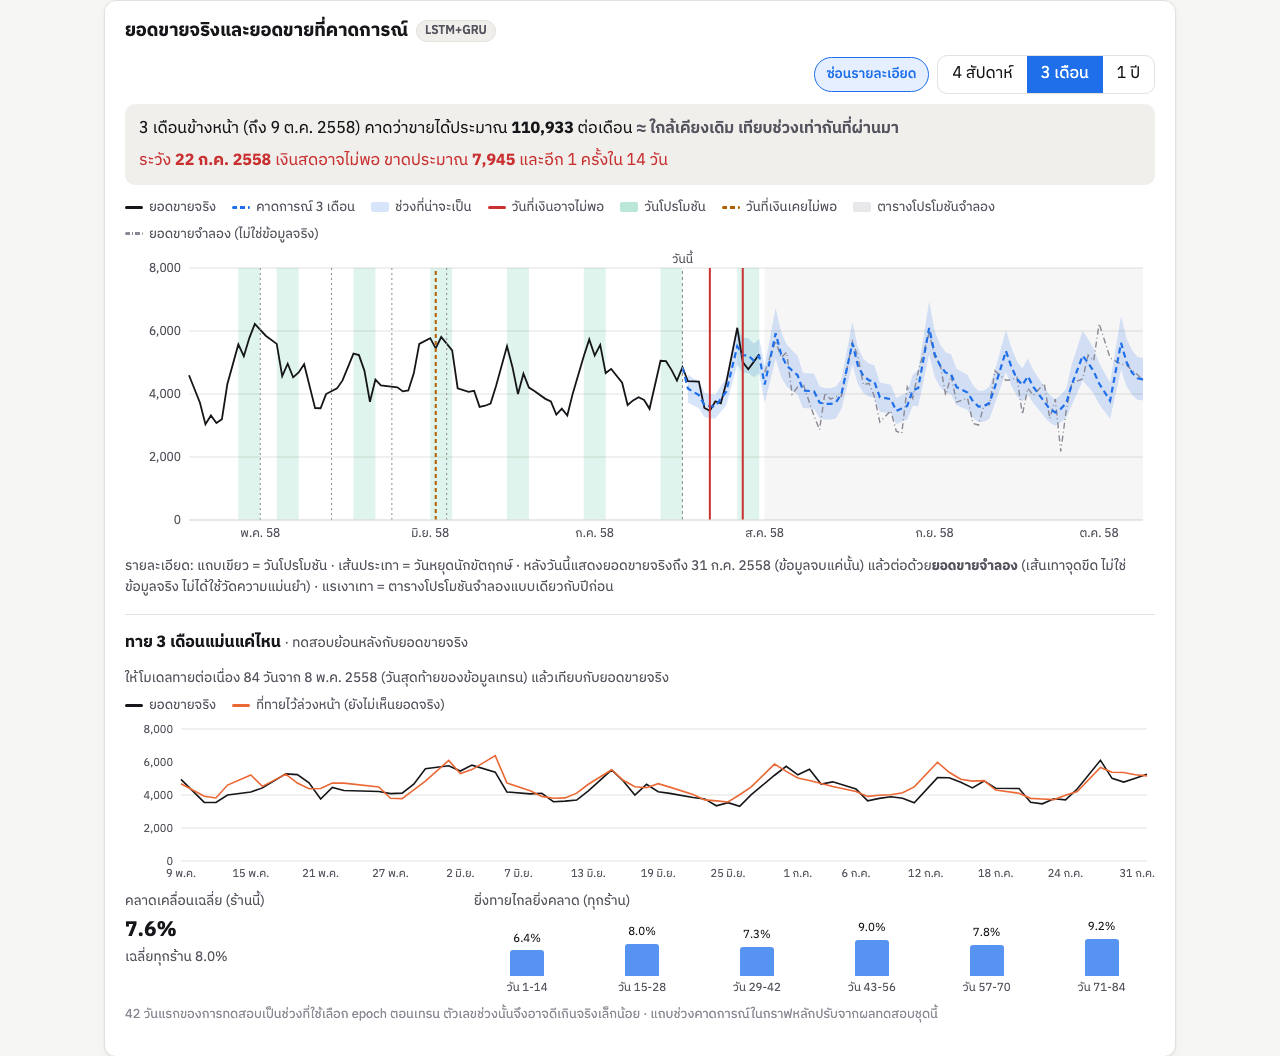
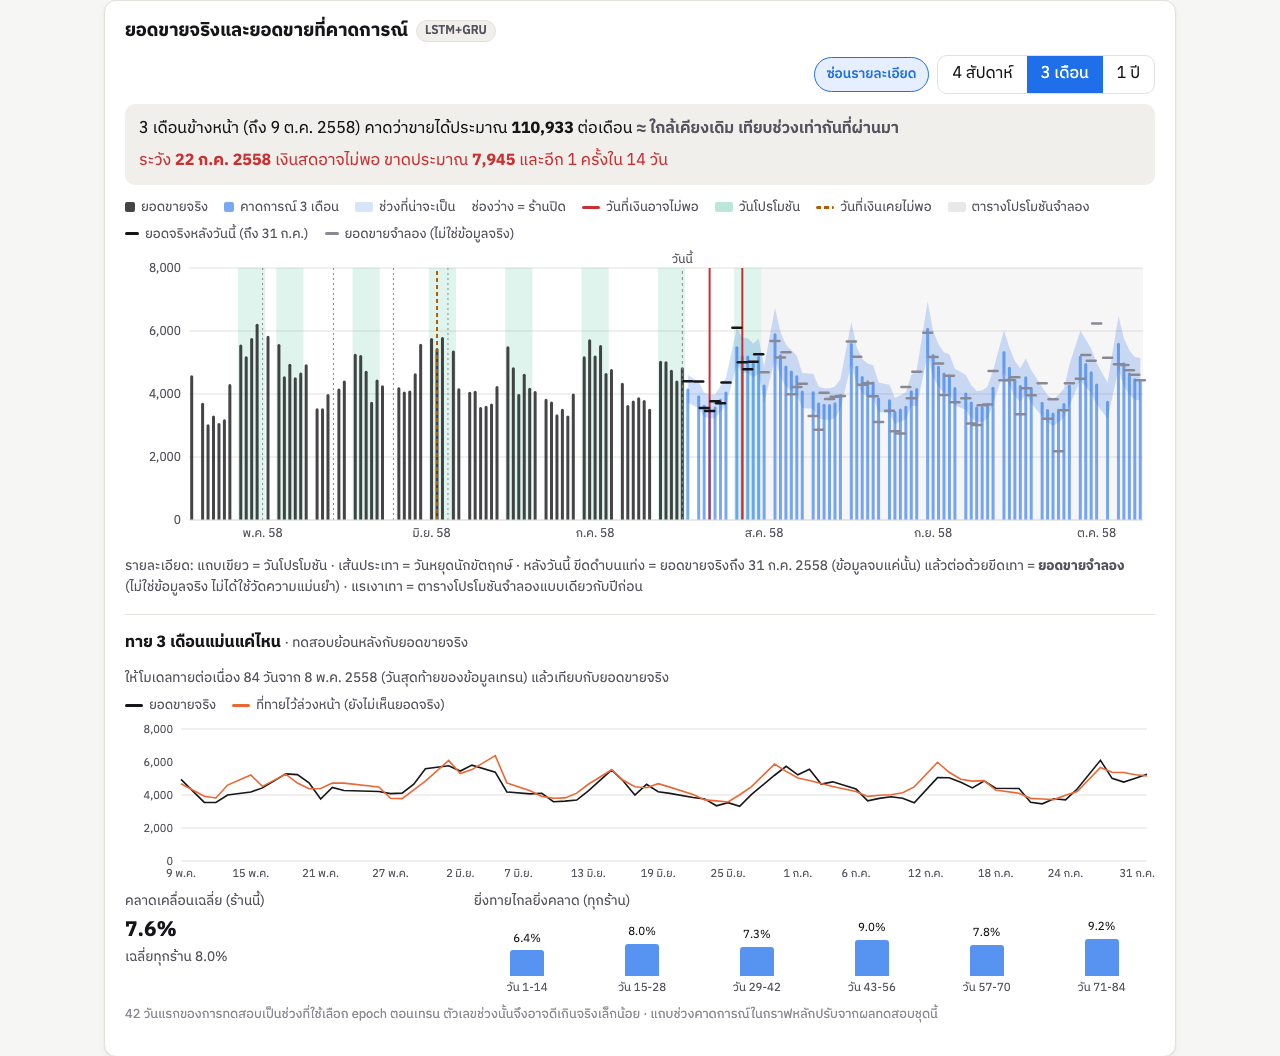
Daily sales views as one bar per day
Each day is its own slot (closed days stay empty), forecast bars sit over a
faint band, and the hovered day is highlighted. In details mode the real sales
after today and the synthetic sales are short ticks over that day's forecast
bar instead of stacking on it. Demo script and report updated.

Changed region(s): [[0.0938, 0.1875, 0.9062, 0.5625]]

diff --git a/frontend/src/components/SalesChart.tsx b/frontend/src/components/SalesChart.tsx
@@ -6,10 +6,10 @@ import {
   Cell,
   ComposedChart,
   ErrorBar,
-  Line,
   ReferenceArea,
   ReferenceLine,
   ResponsiveContainer,
+  Scatter,
   Tooltip,
   XAxis,
   YAxis,
@@ -22,7 +22,8 @@ import type { Forecast, Gap, LongForecast, ModelResult, SalesHistory, SeasonalOu
 import { Accuracy } from "./Accuracy";
 
 /**
- * Sales chart, simple by default:
+ * Sales chart, simple by default. Daily views draw one bar per day so every day is its own slot
+ * (closed days stay empty); the forecast band sits faintly behind the bars.
  *   4w — actual + main LSTM+GRU 14-day forecast
  *   3m — actual + the same models rolled forward 84 days
  *   1y — monthly bars: last 12 months actual, next 12 months seasonal outlook (NOT deep learning)
@@ -106,7 +107,8 @@ function Trend({ value, label }: { value: number; label: string }) {
 
 interface DayRow {
   date: string;
-  actual: number | null;
+  actual: number | null; // real sales up to today (bar)
+  laterActual: number | null; // real sales after today, up to the data end (tick over the forecast bar) — details only
   forecast: number | null;
   band: [number, number] | null;
   simulated: number | null; // synthetic sales after the data ends (ข้อมูลจำลอง) — details only
@@ -131,18 +133,17 @@ function dayRows(range: "4w" | "3m", p: Props, details: boolean): DayRow[] {
     const future = d > asOf;
     const f = range === "4w" ? main.get(d) : long.get(d);
     const row: DayRow = {
-      date: d, actual: null, forecast: null, band: null, simulated: null,
+      date: d, actual: null, laterActual: null, forecast: null, band: null, simulated: null,
       open: h?.open ?? true, promo: h?.promo ?? false, holiday: h?.holiday ?? false,
       schoolHoliday: h?.school_holiday ?? false, assumed: range === "3m" && d > DATA_END,
     };
     if (!future) row.actual = positive(h?.sales);
-    else if (details && d <= DATA_END) row.actual = positive(main.get(d)?.actual);
+    else if (details && d <= DATA_END) row.laterActual = positive(main.get(d)?.actual);
     else if (details) row.simulated = positive(simulated.get(d));
     if (future && f && positive(f.forecast) && f.lower != null && f.upper != null) {
       row.forecast = f.forecast;
       row.band = [f.lower, f.upper];
     }
-    if (d === asOf) row.forecast = row.actual; // join the lines at "today"
     rows.push(row);
   }
   return rows;
@@ -166,12 +167,20 @@ function DayTooltip({ active, payload, label }: { active?: boolean; payload?: { 
     <div className="chart-tooltip">
       <strong>{thaiWeekday(label)} {thaiDate(label)}</strong>
       {r.actual != null && <div>ยอดขายจริง <b className="num">{money(r.actual)}</b></div>}
+      {r.laterActual != null && <div>ยอดขายจริง <b className="num">{money(r.laterActual)}</b></div>}
       {r.simulated != null && <div>ยอดขายจำลอง <span className="num">{money(r.simulated)}</span> <span className="muted">(ไม่ใช่ข้อมูลจริง)</span></div>}
       {r.band && r.forecast != null && <div>คาดการณ์ <b className="num">{money(r.forecast)}</b></div>}
       {r.band && <div className="muted">ช่วง {money(r.band[0])} – {money(r.band[1])}</div>}
       {tags.length > 0 && <div className="tooltip-tags">{tags.join(" · ")}</div>}
     </div>
   );
+}
+
+/** Horizontal tick the width of a day slot, centred on the value. */
+function DayTick({ cx, cy, color, xAxis }: { cx?: number; cy?: number; color: string; xAxis?: { bandSize?: number } }) {
+  if (cx == null || cy == null) return null;
+  const half = Math.min((xAxis?.bandSize ?? 10) * 0.45, 9);
+  return <line x1={cx - half} x2={cx + half} y1={cy} y2={cy} stroke={color} strokeWidth={2.5} strokeLinecap="round" />;
 }
 
 function DailyChart({ range, p, details }: { range: "4w" | "3m"; p: Props; details: boolean }) {
@@ -186,20 +195,22 @@ function DailyChart({ range, p, details }: { range: "4w" | "3m"; p: Props; detai
   return (
     <>
       <div className="chart-legend">
-        <span><i className="swatch" style={{ background: "var(--series-actual)" }} />ยอดขายจริง</span>
-        <span><i className="swatch dashed" />{range === "3m" ? "คาดการณ์ 3 เดือน" : "คาดการณ์ 14 วัน"}</span>
+        <span><i className="swatch bar" style={{ background: "var(--series-actual)", opacity: 0.8 }} />ยอดขายจริง</span>
+        <span><i className="swatch bar" style={{ background: "var(--series-forecast)", opacity: 0.6 }} />{range === "3m" ? "คาดการณ์ 3 เดือน" : "คาดการณ์ 14 วัน"}</span>
         <span><i className="swatch band" />ช่วงที่น่าจะเป็น</span>
+        <span className="muted">ช่องว่าง = ร้านปิด</span>
         {gaps.length > 0 && <span><i className="swatch" style={{ background: "var(--bad)" }} />วันที่เงินอาจไม่พอ</span>}
         {details && <>
           <span><i className="swatch promo" />วันโปรโมชัน</span>
           {pastGaps.length > 0 && <span><i className="swatch dashed past-gap" />วันที่เงินเคยไม่พอ</span>}
           {range === "3m" && <span><i className="swatch synthetic" />ตารางโปรโมชันจำลอง</span>}
-          <span><i className="swatch dashed simulated" />ยอดขายจำลอง (ไม่ใช่ข้อมูลจริง)</span>
+          <span><i className="swatch tick" />ยอดจริงหลังวันนี้ (ถึง 31 ก.ค.)</span>
+          <span><i className="swatch tick simulated-tick" />ยอดขายจำลอง (ไม่ใช่ข้อมูลจริง)</span>
         </>}
       </div>
       <div style={{ width: "100%", height: 300 }}>
         <ResponsiveContainer>
-          <ComposedChart data={rows} margin={{ top: 18, right: 12, bottom: 0, left: 0 }}>
+          <ComposedChart data={rows} margin={{ top: 18, right: 12, bottom: 0, left: 0 }} barCategoryGap="22%">
             <CartesianGrid stroke="var(--border)" vertical={false} />
             {assumed.map(([a, b]) => (
               <ReferenceArea key={`as-${a}`} x1={a} x2={b} fill="var(--text-3)" fillOpacity={0.08} stroke="none" ifOverflow="hidden" />
@@ -214,11 +225,14 @@ function DailyChart({ range, p, details }: { range: "4w" | "3m"; p: Props; detai
               minTickGap={monthAxis ? 8 : 24} />
             <YAxis tickFormatter={(v: number) => money(v)} tick={{ fill: "var(--text-2)", fontSize: 12 }}
               axisLine={false} tickLine={false} width={64} />
-            <Tooltip content={<DayTooltip />} />
-            <Area dataKey="band" stroke="none" fill="var(--series-band)" fillOpacity={0.18} connectNulls isAnimationActive={false} />
-            <Line dataKey="actual" stroke="var(--series-actual)" strokeWidth={1.8} dot={false} connectNulls isAnimationActive={false} />
-            <Line dataKey="simulated" stroke="var(--text-3)" strokeWidth={1.4} strokeDasharray="6 3 1 3" dot={false} connectNulls isAnimationActive={false} />
-            <Line dataKey="forecast" stroke="var(--series-forecast)" strokeWidth={2.2} strokeDasharray="6 4" dot={false} connectNulls isAnimationActive={false} />
+            <Tooltip content={<DayTooltip />} cursor={{ fill: "var(--surface-2)" }} />
+            <Area dataKey="band" stroke="none" fill="var(--series-band)" fillOpacity={0.22} connectNulls isAnimationActive={false} />
+            {/* actual (past) and forecast (future) never share a day, so stacking keeps one centred bar per slot. */}
+            <Bar dataKey="actual" stackId="day" fill="var(--series-actual)" fillOpacity={0.8} radius={[2, 2, 0, 0]} maxBarSize={18} isAnimationActive={false} />
+            <Bar dataKey="forecast" stackId="day" fill="var(--series-forecast)" fillOpacity={0.6} radius={[2, 2, 0, 0]} maxBarSize={18} isAnimationActive={false} />
+            {/* Details: what actually happened (or synthetic sales) as a short tick over that day's forecast bar. */}
+            <Scatter dataKey="laterActual" shape={<DayTick color="var(--series-actual)" />} isAnimationActive={false} />
+            <Scatter dataKey="simulated" shape={<DayTick color="var(--text-3)" />} isAnimationActive={false} />
             <ReferenceLine x={asOf} stroke="var(--text-3)" strokeDasharray="3 3"
               label={{ value: "วันนี้", position: "top", fill: "var(--text-2)", fontSize: 12 }} />
             {gaps.filter((g) => inRange(g.date)).map((g) => <ReferenceLine key={g.date} x={g.date} stroke="var(--bad)" strokeWidth={2} />)}
@@ -347,8 +361,8 @@ export function SalesChart(props: Props) {
       {range === "1y" ? <MonthlyChart p={props} /> : <DailyChart range={range} p={props} details={details} />}
       {details && range !== "1y" && (
         <p className="muted small chart-note">
-          รายละเอียด: แถบเขียว = วันโปรโมชัน · เส้นประเทา = วันหยุดนักขัตฤกษ์ · หลังวันนี้แสดงยอดขายจริงถึง 31 ก.ค. 2558 (ข้อมูลจบแค่นั้น)
-          แล้วต่อด้วย<b>ยอดขายจำลอง</b> (เส้นเทาจุดขีด ไม่ใช่ข้อมูลจริง ไม่ได้ใช้วัดความแม่นยำ)
+          รายละเอียด: แถบเขียว = วันโปรโมชัน · เส้นประเทา = วันหยุดนักขัตฤกษ์ · หลังวันนี้ ขีดดำบนแท่ง = ยอดขายจริงถึง 31 ก.ค. 2558
+          (ข้อมูลจบแค่นั้น) แล้วต่อด้วยขีดเทา = <b>ยอดขายจำลอง</b> (ไม่ใช่ข้อมูลจริง ไม่ได้ใช้วัดความแม่นยำ)
           {range === "3m" && " · แรเงาเทา = ตารางโปรโมชันจำลองแบบเดียวกับปีก่อน"}
         </p>
       )}

diff --git a/frontend/src/index.css b/frontend/src/index.css
@@ -225,6 +225,8 @@ tr.highlight td { background: var(--accent-soft); font-weight: 600; }
 .swatch.promo { height: 10px; background: var(--series-promo); opacity: 0.3; }
 .swatch.bar { width: 10px; height: 10px; background: var(--series-expense); opacity: 0.6; border-radius: 2px; }
 .swatch.dashed.simulated { background: repeating-linear-gradient(90deg, var(--text-3) 0 5px, transparent 5px 7px, var(--text-3) 7px 8px, transparent 8px 10px); }
+.swatch.tick { height: 3px; width: 14px; background: var(--series-actual); }
+.swatch.tick.simulated-tick { background: var(--text-3); }
 .swatch.synthetic { height: 10px; background: var(--text-3); opacity: 0.2; }
 .block-bars { display: flex; align-items: flex-end; gap: 8px; margin-top: 6px; }
 .block-bar { display: flex; flex-direction: column; align-items: center; gap: 3px; font-size: 0.72rem; flex: 1; }

diff --git a/docs/demo.md b/docs/demo.md
@@ -72,6 +72,7 @@ cd frontend && VITE_USE_MOCK=false npm run dev
 | เงินอาจไม่พอครั้งถัดไป | **22 ก.ค. 2558** ขาดประมาณ **7,945** · "ที่ผ่านมาเคยเงินไม่พอ 1 ครั้ง" |
 
 **กราฟยอดขาย** (เปิดมาเป็นช่วง **3 เดือน** แบบเรียบง่าย — ย้อนหลัง 3 เดือน + พยากรณ์ 3 เดือน)
+แต่ละวันเป็นแท่งของตัวเอง: แท่งเทาเข้ม = ยอดจริง, แท่งฟ้า = คาดการณ์, ช่องว่าง = วันที่ร้านปิด (อาทิตย์)
 
 อ่าน **ประโยคสรุป** เหนือกราฟก่อน: "3 เดือนข้างหน้าคาดว่าขายได้ประมาณ 110,933 ต่อเดือน ≈ ใกล้เคียงเดิม"
 และบรรทัดสีแดง "ระวัง 22 ก.ค. 2558 เงินสดอาจไม่พอ ขาดประมาณ 7,945"
@@ -86,9 +87,9 @@ cd frontend && VITE_USE_MOCK=false npm run dev
 > "ช่วง 3 เดือนข้างหน้า โมเดลเดิมทายต่อกันทีละ 14 วัน แถบสีฟ้ากว้างขึ้นตามระยะเพราะยิ่งไกลยิ่งไม่แน่นอน
 > ส่วนที่แรเงาเทาคือหลัง 31 ก.ค. ที่ใช้ตารางโปรโมชันจำลองแบบเดียวกับปีก่อน"
 
-ถ้าเปิดรายละเอียดอยู่ ชี้ **เส้นเทาจุดขีด** หลัง 31 ก.ค. — **ต้องพูดทุกครั้ง:**
+ถ้าเปิดรายละเอียดอยู่ ชี้ **ขีดสีเทา** บนแท่งหลัง 31 ก.ค. — **ต้องพูดทุกครั้ง:**
 
-> "ข้อมูลยอดขายจริงจบที่ 31 ก.ค. 2558 เส้นสีเทาหลังจากนั้นเป็น**ยอดขายจำลอง**จากปีก่อน ใส่ไว้ให้เห็นภาพต่อเนื่องเท่านั้น
+> "ข้อมูลยอดขายจริงจบที่ 31 ก.ค. 2558 ขีดสีเทาหลังจากนั้นเป็น**ยอดขายจำลอง**จากปีก่อน ใส่ไว้ให้เห็นภาพต่อเนื่องเท่านั้น
 > ไม่ใช่ข้อมูลจริง และไม่ได้ใช้วัดความแม่นยำ — ความแม่นดูจากเส้นสีส้มกับแผงด้านล่าง"
 
 เลื่อนลงไปที่ **"ทาย 3 เดือนแม่นแค่ไหน"** (กราฟเล็กใต้กราฟหลัก) — ต้องเห็น: เส้นส้มซ้อนกับเส้นดำตลอด 84 วัน,
@@ -185,7 +186,7 @@ cd frontend && VITE_USE_MOCK=false npm run dev
 | "คะแนนเครดิต" | "สัญญาณการเงิน" |
 | "…บาท" | พูดแค่ตัวเลข (ข้อมูลเป็นยูโร) |
 | "โมเดลชนะ LightGBM" | "ทัดเทียม LightGBM" |
-| "เส้นเทาคือยอดขายจริง" / "ดูสิ ทายตรงกับเส้นเทา" | "เส้นเทาเป็นยอดขายจำลอง ไม่ใช่ข้อมูลจริง" |
+| "ขีดเทาคือยอดขายจริง" / "ดูสิ ทายตรงกับขีดเทา" | "ขีดเทาเป็นยอดขายจำลอง ไม่ใช่ข้อมูลจริง" |
 | "แม่นมั่นใจ 80%" | "ช่วงคาดการณ์โดยประมาณ" |
 | "ข้อมูลร้านจริง" (สำหรับรายจ่าย) | "รายจ่ายเป็นข้อมูลจำลอง" |
 
@@ -210,7 +211,7 @@ cd frontend && npm run build && npm run lint     # ต้องไม่มี e
 - [ ] ร้าน 1: ค่าเริ่มต้น legend มี 4 รายการ · กด "แสดงรายละเอียด" แล้วเห็นแถบเขียว (โปรโมชัน) และเส้นเทาจุดขีด
 - [ ] ร้าน 1: ปุ่ม 1 ปี เป็นกราฟแท่งรายเดือน เห็น ธ.ค. 2557 และ ธ.ค. 2558 พุ่ง · กราฟเล็กด้านล่างเป็นแท่งดำเทียบแท่งส้ม
 - [ ] ร้าน 1: ช่วง 3 เดือน พยากรณ์ถึง 9 ต.ค. 2558 · แรเงาเทาหลัง 31 ก.ค. · แผง 7.6% / ทุกร้าน 8.0%
-- [ ] ร้าน 1: เส้นเทาจุดขีด "ยอดขายจำลอง (ไม่ใช่ข้อมูลจริง)" เริ่ม 1 ส.ค. · ชี้แล้ว tooltip เขียนว่า "ยอดขายจำลอง"
+- [ ] ร้าน 1: ช่วง 4 สัปดาห์/3 เดือน เป็นแท่งรายวัน วันอาทิตย์เป็นช่องว่าง · โหมดรายละเอียดมีขีดดำ (ยอดจริงถึง 31 ก.ค.) และขีดเทา "ยอดขายจำลอง" บนแท่งคาดการณ์ · ชี้แล้ว tooltip เขียนว่า "ยอดขายจำลอง"
 - [ ] ร้าน 1: ช่วง 1 ปี มีป้าย "ไม่ใช่ผลโมเดล deep learning" · แผง 5.6% / ทุกร้าน 7.2%
 - [ ] ร้าน 1: แชตถาม "ปีหน้าธันวาคมจะขายได้เท่าไหร่" → ไม่ให้ตัวเลข ธ.ค. 2559 (อยู่นอกช่วง)
 - [ ] ร้าน 1: แผงความแม่นยำ 7.0% · 19/24 วัน · พลาดมากสุด 11 ก.ค. 2558

diff --git a/docs/report_ws1.md b/docs/report_ws1.md
@@ -383,7 +383,7 @@ python -m ai.cashflow_forecast.long_range
 | วันโปรโมชัน วันเปิดร้าน วันหยุด ถึง 31 ก.ค. 2558 | **จริง** | Rossmann | — (เป็น input) | แถบเขียว / เส้นประเทา |
 | ค่าพยากรณ์ 14 วัน, 3 เดือน, ภาพรวม 1 ปี | ผลของระบบ | LSTM+GRU / ทายต่อเนื่อง / ตามฤดูกาล | ทดสอบกับยอดจริง (หัวข้อ 6, 7.6) | เส้นประสีฟ้า + แถบช่วง |
 | วันโปรโมชันและวันเปิดร้านหลัง 31 ก.ค. 2558 | **จำลอง** | วันเดียวกันในสัปดาห์ของ 52 สัปดาห์ก่อน; วันหยุดตามวันที่ของปีก่อน | ไม่ใช่ | แรเงาเทา "ตารางโปรโมชันจำลอง" |
-| **ยอดขายหลัง 31 ก.ค. 2558 ถึง 31 ก.ค. 2561** | **จำลอง** | ยอดจริงวันเดียวกันในสัปดาห์จากปีสุดท้ายที่มีข้อมูล × แนวโน้ม 12 สัปดาห์ของร้าน (จำกัด ±10% ต่อปี) × สุ่ม (lognormal σ = 0.08), seed 42 | **ไม่ใช่** | เส้นเทาจุดขีด "ยอดขายจำลอง (ไม่ใช่ข้อมูลจริง)" |
+| **ยอดขายหลัง 31 ก.ค. 2558 ถึง 31 ก.ค. 2561** | **จำลอง** | ยอดจริงวันเดียวกันในสัปดาห์จากปีสุดท้ายที่มีข้อมูล × แนวโน้ม 12 สัปดาห์ของร้าน (จำกัด ±10% ต่อปี) × สุ่ม (lognormal σ = 0.08), seed 42 | **ไม่ใช่** | ขีดสีเทา "ยอดขายจำลอง (ไม่ใช่ข้อมูลจริง)" บนแท่งคาดการณ์ (เปิดในโหมดรายละเอียด) |
 | รายจ่าย บิล supplier ค่าเช่า เงินเดือน และการถอนเงินของเจ้าของร้าน | **จำลอง** | Workstream 2 (`data/synthetic/README.md`) | ไม่ใช่ | ป้าย "ข้อมูลจำลอง" |
 | ยอดเงินคงเหลือ และวันที่เงินเคย/อาจไม่พอ | คำนวณจากยอดขาย (จริง/พยากรณ์) − รายจ่ายจำลอง | Workstream 2 | ไม่ใช่ | ป้าย "ข้อมูลจำลอง" |
 
@@ -396,7 +396,7 @@ python -m ai.cashflow_forecast.long_range
    ไม่ได้พิสูจน์ว่าทายยอดขายจริงได้
 2. **สร้างแยกจากโมเดล LSTM/GRU** (อิงยอดขายจริงปีก่อน ไม่ได้อิงผลของโมเดล)
 3. **ไม่ใช้คำนวณยอดเงินคงเหลือหรือการแจ้งเตือน** และไม่ส่งให้ AI Copilot
-4. **แสดงแยกจากยอดขายจริงชัดเจน:** เส้นสีเทาแบบจุดขีด และ legend กับ tooltip เขียนว่า "ยอดขายจำลอง (ไม่ใช่ข้อมูลจริง)"
+4. **แสดงแยกจากยอดขายจริงชัดเจน:** ขีดสีเทา ซ่อนไว้ในโหมดรายละเอียด และ legend กับ tooltip เขียนว่า "ยอดขายจำลอง (ไม่ใช่ข้อมูลจริง)"
 
 **ข้อควรระวังในการอ่านกราฟ:** เส้นยอดขายจำลองกับเส้นภาพรวม 1 ปีอิงยอดขายปีก่อนเหมือนกัน จึงดูใกล้กันโดยธรรมชาติ
 การที่สองเส้นนี้ใกล้กัน**ไม่ได้แปลว่าโมเดลแม่น** ความแม่นยำที่พิสูจน์ได้คือเส้นสีส้ม (ทดสอบย้อนหลัง) เทียบกับเส้นดำ (ยอดจริง)
